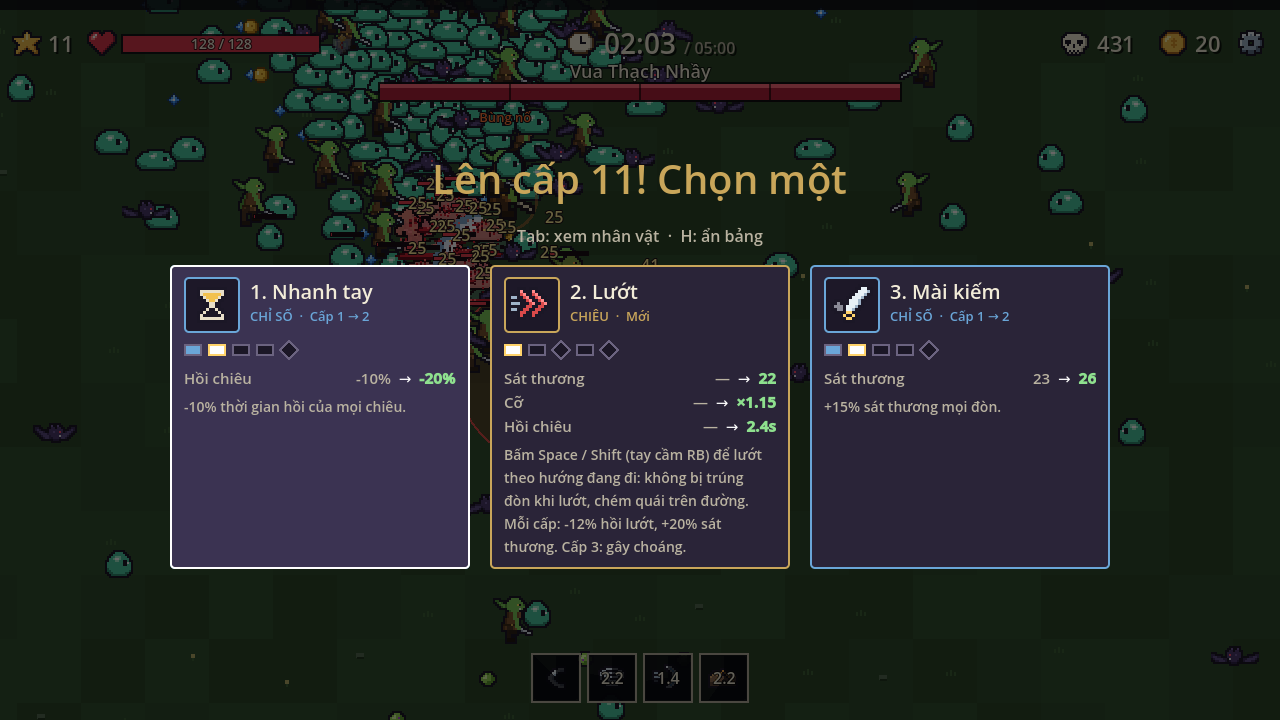
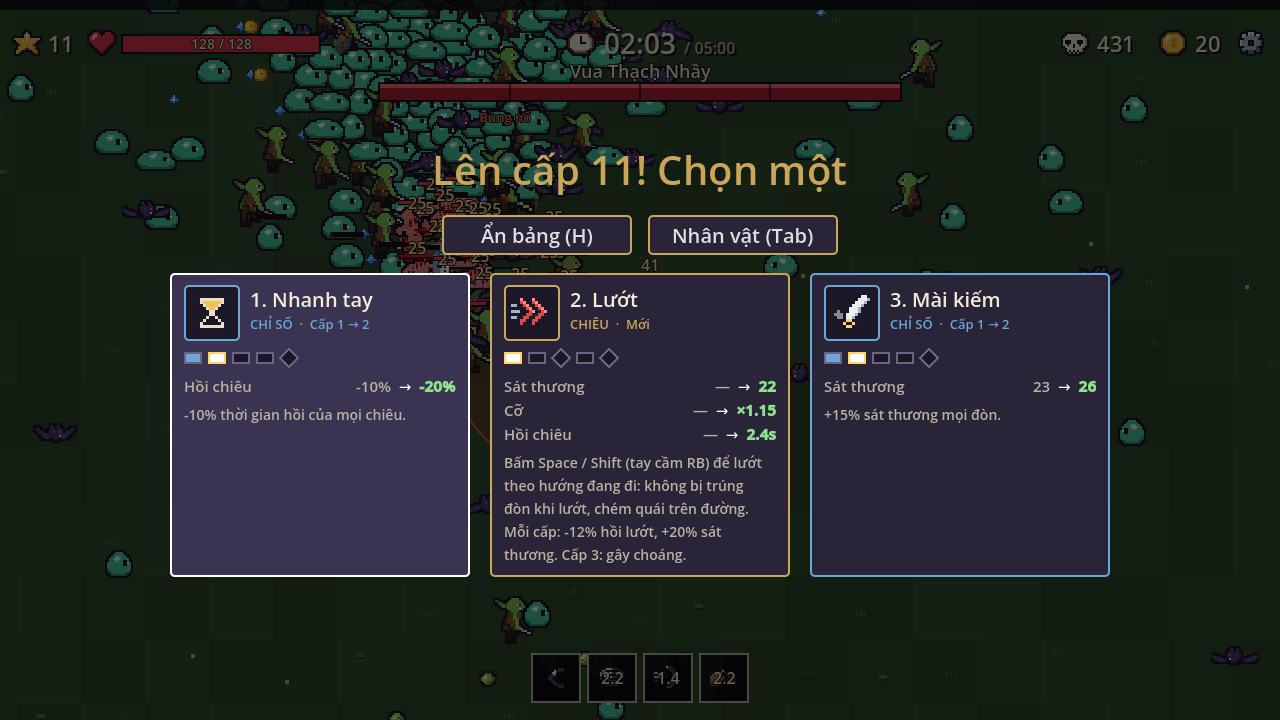
fix(ui): Tab opens the character sheet; clear hide/show buttons
Root cause: Tab is Godot's focus-next key, so the card buttons consumed it
before run._unhandled_input saw it; Tab only moved the focus. The level-up
view keys (Tab/C, H) are now taken in run._input and marked handled. The
level-up, skill and milestone picks show two buttons, "Ẩn bảng (H)" and
"Nhân vật (Tab)", and the hidden view's strip has "Hiện thẻ (H)". Also fixes
the 04-level-up UI shot, which was taken before the first level-up.

Regression test failed before the fix (Tab left the view on cards), passes after.
Verified: gamekit test: 229 passed, 0 failed; shots: evidence/levelup-views/04-05, production/ui/04-level-up.png
Design: design/ux/level-up.md

Changed region(s): [[0.125, 0.2139, 0.875, 0.825], [0.8125, 0.5194, 0.875, 0.55]]

diff --git a/design/ux/level-up.md b/design/ux/level-up.md
@@ -16,9 +16,10 @@ nhìn chiến trường; game vẫn dừng trong cả hai chế độ.
 
 ## Hành vi
 
-- Dưới tiêu đề bảng thẻ: dòng gợi ý "Tab: xem nhân vật · H: ẩn bảng".
+- Dưới tiêu đề bảng thẻ: hai nút "Ẩn bảng (H)" và "Nhân vật (Tab)" (bấm chuột được, không nhận focus).
 - **Tab / C** (tay cầm Back): mở trang Nhân vật; nút "Quay lại chọn thẻ (Tab)"; Tab lần nữa quay lại thẻ.
 - **H** (tay cầm LB): ẩn bảng, chỉ còn một dải nhỏ ở trên "Đang xem chiến trường · H: hiện lại thẻ · Tab: nhân vật";
-  H lần nữa hiện lại thẻ.
+  H lần nữa hoặc nút "Hiện thẻ (H)" trên dải hiện lại thẻ.
 - Phím 1/2/3 chỉ chọn thẻ khi bảng thẻ đang hiện (tránh chọn mù).
 - Code: `run.toggle_level_view()`, `RunPanels.show_peek()` / `reshow()`. Test: `milestone_test.gd`.
+- Phím Tab được bắt trong `run._input` (trước GUI): Godot dùng Tab để chuyển focus giữa các nút, nên ở `_unhandled_input` nó không bao giờ tới (lỗi 2026-11-18).
